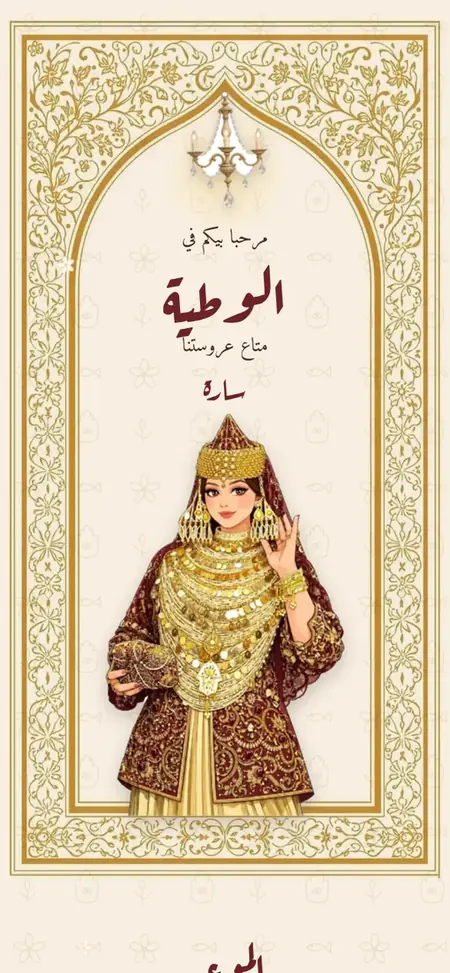
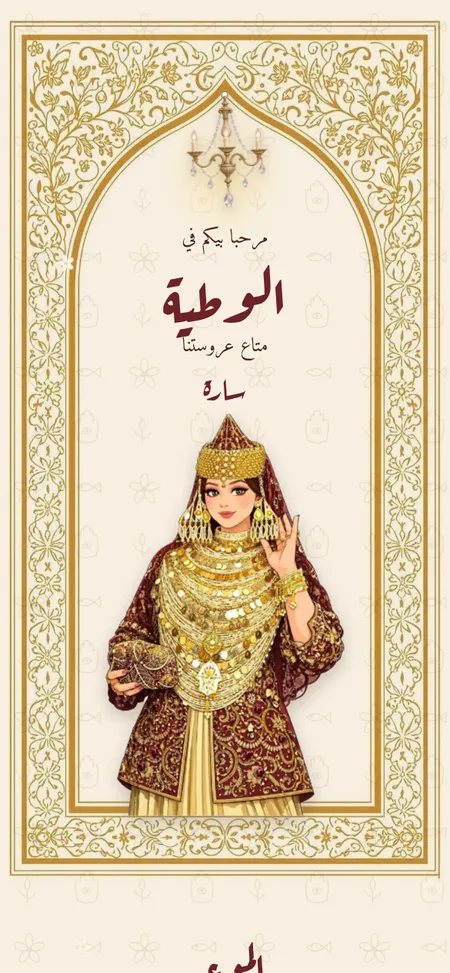
Wteya : lustre sans fond blanc
Claude-Session: https://claude.ai/code/session_01JHbHXdBUaR2CiA6VEWaRD1

Changed region(s): [[0.4356, 0.1233, 0.5911, 0.185], [0.1244, 0.2467, 0.1556, 0.2775]]

diff --git a/templates/outeya-gold.html b/templates/outeya-gold.html
@@ -235,7 +235,7 @@ html,body{margin:0;background:#f7efe2;overflow-x:hidden}
 <img src="/media/x/952f6e2a7b90c9.webp" alt="" style="position: absolute; left: 0; top: 18px; width: 430px; height: 822px; mix-blend-mode: multiply">
 <div class="halo" aria-hidden="true" style="left: 155px; top: 106px; width: 120px; height: 120px"></div>
 <div class="fade" style="position: absolute; left: 176px; top: 86px; width: 78px; height: 113px; animation-delay: .2s">
-<img class="swing" src="/media/x/8fc37c01cf912e.webp" alt="" style="width: 78px; height: 113px; display: block; filter: drop-shadow(0 4px 6px rgba(74,42,28,.22))">
+<img class="swing" src="/media/x/fc1e2992567d7a.webp" alt="" style="width: 78px; height: 113px; display: block; filter: drop-shadow(0 4px 6px rgba(74,42,28,.22))">
 </div>
 <div style="position: absolute; left: 95px; top: 214px; width: 240px; display: flex; flex-direction: column; align-items: center; text-align: center">
 <div class="bd fade" style="font-size: 19px; line-height: 1.5; animation-delay: .5s">مرحبا بيكم في</div>
